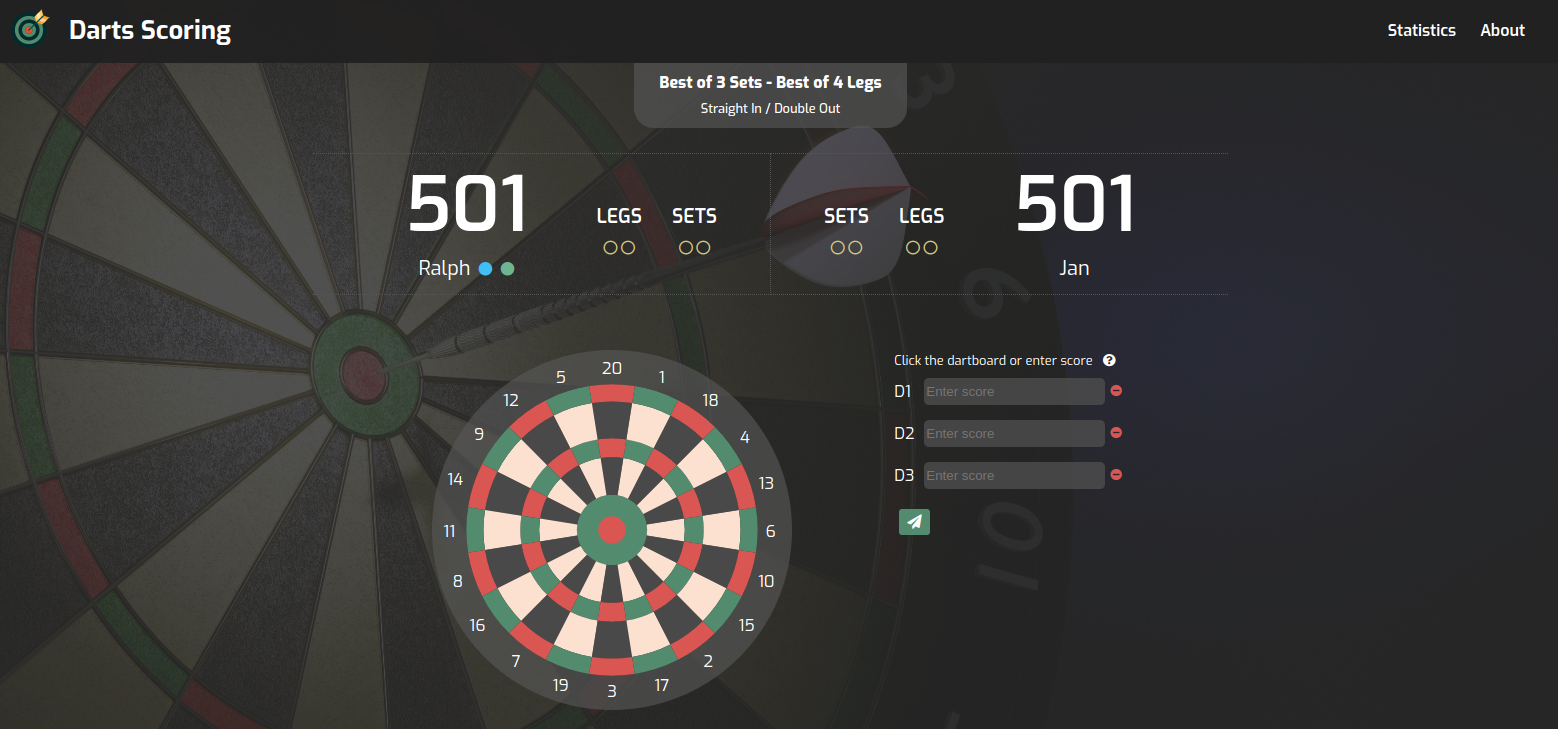
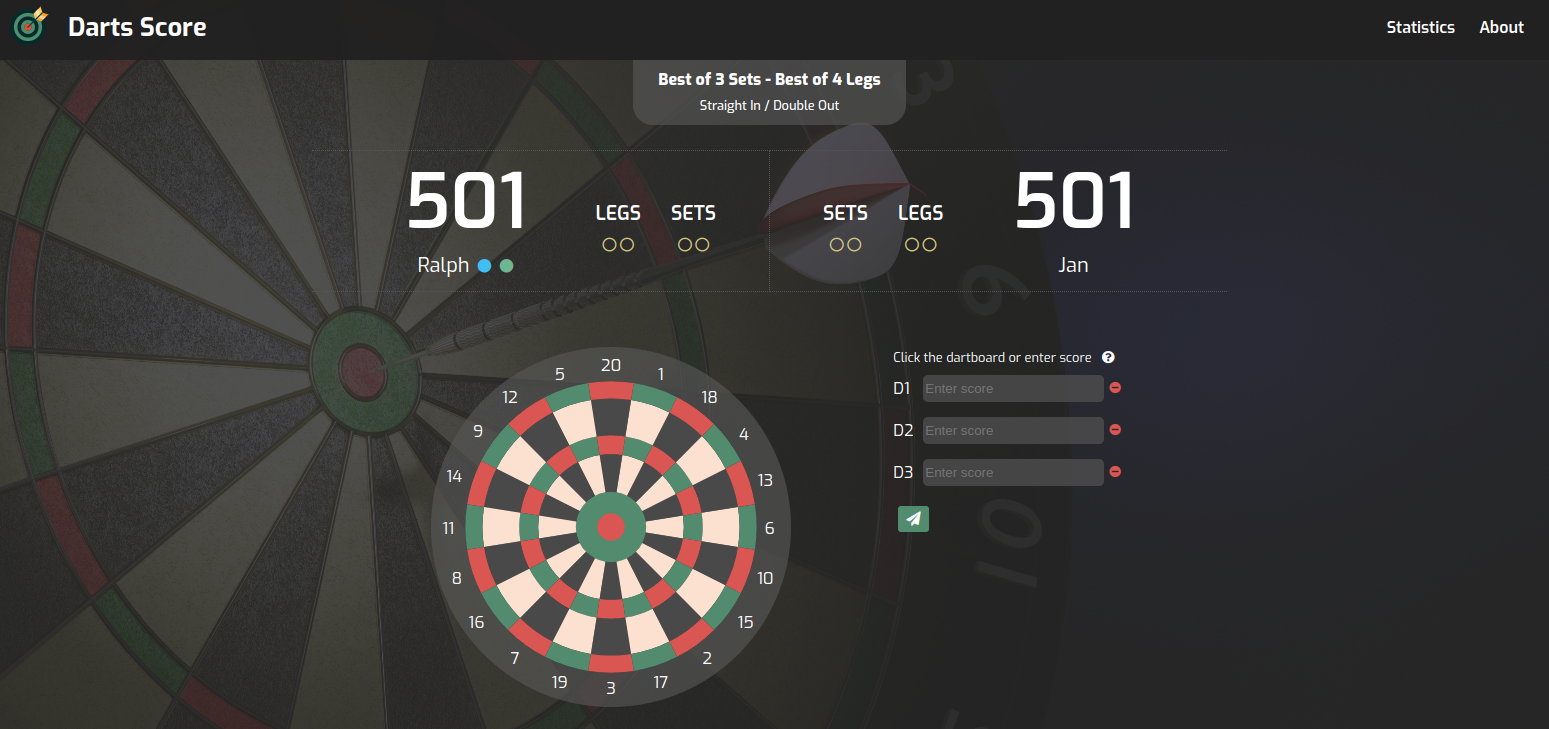
Update navigation title

diff --git a/client/src/components/shared/Navigation/MainNavigation.js b/client/src/components/shared/Navigation/MainNavigation.js
@@ -14,7 +14,7 @@ const MainNavigation = () => {
             <img alt="darts score logo" src={logo} className="logo-img" />
           </Link>
         </div>
-        <h1 className="main-navigation-title"><Link to="/">Darts Scoring</Link></h1>
+        <h1 className="main-navigation-title"><Link to="/">Darts Score</Link></h1>
       </div>
       <nav>
         <NavLinks />
